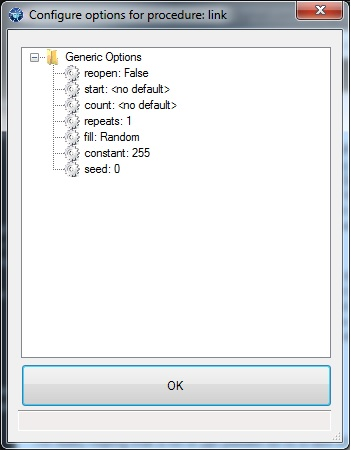
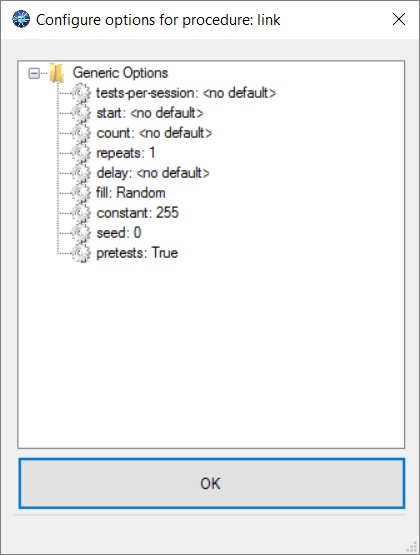
update aegis docs

Changed region(s): [[0.0, 0.0, 1.0, 1.0]]

diff --git a/aegis/docs/protocols/iec104/index.html b/aegis/docs/protocols/iec104/index.html
@@ -180,6 +180,9 @@
         <li class="main "><a href="#procedures-master">Procedures (master)</a></li>
         
     
+        <li class="main "><a href="#procedures-either-master-or-outstation">Procedures (either master or outstation)</a></li>
+        
+    
         <li class="main "><a href="#test-plans">Test Plans</a></li>
         
     
@@ -192,28 +195,28 @@
 of two layers:</p>
 <ul>
 <li>APCI - Application Protocol Control Information used to denote frame types for 104's network mode.</li>
-<li>ASDU - Application Service Data Unit that containings applicaiton layer frames. This is the same for 101 and 104.</li>
+<li>ASDU - Application Service Data Unit that contains application layer frames. This is the same for 101 and 104.</li>
 </ul>
 <p>The application layer defines a number of <em>Type Ids</em> which can be thought of as function codes. They define the format of the data that follows. Unlike in DNP3,
 104 ASDUs can only contain one type of data.</p>
 <h1 id="functions-supported">Functions supported</h1>
-<p>The 104 fuzzer provides support for every TypeId defined in the standard. This doesn't guarantee that all possible bugs will be found, but it means there are unlikely to
-be any significant gaps in the test coverage.</p>
+<p>The 104 fuzzer provides support for every TypeId defined in the standard. This doesn't guarantee that all possible bugs will be found, but it does mean there that a significant portion
+of the application layer is stressed by the fuzzer.</p>
 <h1 id="health-checks">Health checks</h1>
-<p>The fuzzer tests that the device under test (DUT) is still actively communicating by sending a U-format frame with TESTFR ACT=1. It expects the remote side to answer with
-TESTFR CON=1.</p>
+<p>The fuzzer queries the device under test (DUT) by sending a U-format frame with TESTFR ACT and expects to receive TESTFR CON in response.</p>
 <h1 id="conformance-and-parameters">Conformance and parameters</h1>
 <p>Some parameters in IEC 104 have configurable sizes that both sides must agree upon. Aegis uses the following values:</p>
 <ul>
-<li>A two-octet Cause of Tranmission field is used where the one-byte sender address sub-field is utilized.</li>
+<li>A two-octet Cause of Transmission field is used where the one-byte sender address sub-field is utilized.</li>
 <li>A two-octet Common Address field is used.</li>
 <li>A three-octet Information Object Address field is used.</li>
 </ul>
-<p>There are the defaults for many systems, and the only settings that work with Wireshark.</p>
+<p>There are the defaults for almost all systems, and the only settings that work with Wireshark.</p>
 <h1 id="handshaking">Handshaking</h1>
 <ul>
-<li>The outstation fuzzer automatically advances and increments the Transmit and Receive Sequence Numbers in the APCI.</li>
-<li>The outstation fuzzer will send START_DT ACT=1 and expect START_DT CON=1 before running any tests.</li>
+<li>The fuzzer automatically advances and increments the Transmit and Receive Sequence Numbers in the APCI.</li>
+<li>The fuzzer will send (outstation) or receive (master) START_DT automatically.</li>
+<li>The fuzzer always answers TESTFR ACT with TESTFR CON.</li>
 </ul>
 <h1 id="parameters">Parameters</h1>
 <ul>
@@ -239,6 +242,12 @@ TESTFR CON=1.</p>
 <ul>
 <li><strong>app-response</strong> - Fuzzes the client's application layer with mutated forms of response TypeIds</li>
 <li><strong>rand-app-response</strong> - Fuzzes the client's application layer with random semi-random responses.</li>
+</ul>
+<h1 id="procedures-either-master-or-outstation">Procedures (either master or outstation)</h1>
+<p>The following procedures send frames with malformed APCI. You will almost certainly need to run each test case in its own TCP session (i.e. tests-per-session == 1).</p>
+<ul>
+<li><strong>apci</strong> - Sends malformed I, U, or S frames with disallowed lengths and a configurable random payload length.</li>
+<li><strong>random-frame</strong> - Sends a completely random frame prepended with the 0x68 start characters.</li>
 </ul>
 <h1 id="test-plans">Test Plans</h1>
 <p>Your Aegis installation of contains recommended test plans for both outstations and masters.</p>

diff --git a/aegis/docs/usage/studio/index.html b/aegis/docs/usage/studio/index.html
@@ -214,13 +214,15 @@ underneath suite folder(s). You can add a procedure to a suite by right clicking
 <p>Each test procedure has a number of generic options that can be configured in addition to any per-procedure options.</p>
 <p><img alt="GenericOptions" src="../../img/generic_options.jpg" /></p>
 <ul>
-<li><strong>reopen</strong> - Close and reopen the channel before every test. This is useful in stream-based protocols where an invalid message permanently corrupts the session.</li>
+<li><strong>tests-per-session</strong> - The number of tests to run in a single communication session. Setting this value to 1 resets the connection for every test.</li>
 <li><strong>start</strong> - Start testing a particular test case id.</li>
 <li><strong>count</strong> - Limit the number of test cases to the specified count.</li>
 <li><strong>repeats</strong> - Repeat the specified test sequence (all settings) more than once. Useful for stressing non-fatal or non-deterministic bugs.</li>
+<li><strong>delay</strong> - The number of milliseconds to wait between test cases. Also useful for delays between connection requests.</li>
 <li><strong>fill</strong> - Specifics the source the "fill" value for non-random constant data.</li>
 <li><strong>constant</strong> - The byte value to use for constant-fill mode.</li>
 <li><strong>seed</strong> - The seed to use for the pseudo-random number generator.</li>
+<li><strong>pretests</strong> - Some modules implement handshaking to run at the beginning of each communication session called "pretests". Setting this value to false disables this handshaking.</li>
 </ul>
 <p><em>Start</em> and <em>count</em> are the most frequently adjusted parameters by the user. Most of the other values already have reasonable defaults
 in the install-included test plans.</p>
